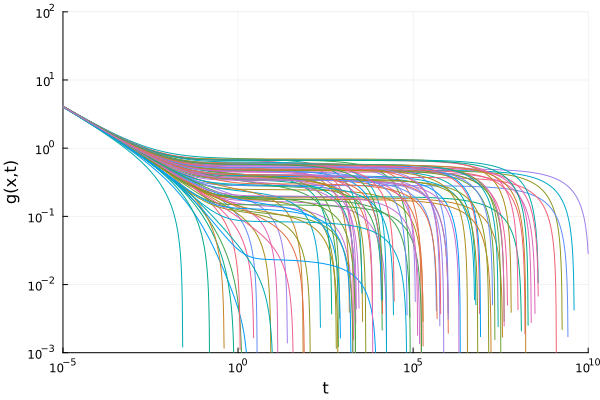
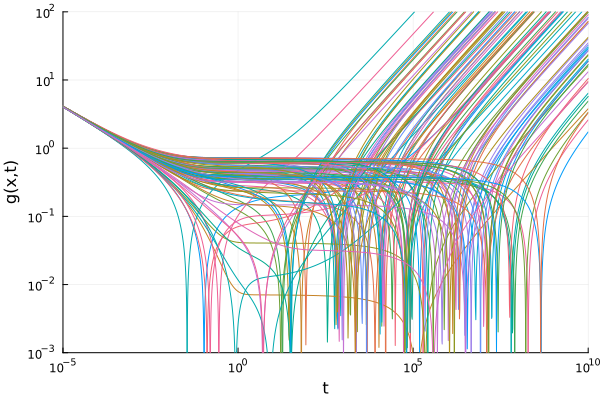
small improvement to docs

diff --git a/docs/src/index.md b/docs/src/index.md
@@ -57,7 +57,7 @@ sol = solve(eqn_sys, solver)
 
 p = plot(xlabel="t", xscale=:log10, yscale=:log10, ylabel="g(x,t)", xlims=(10^-5, 10^10), ylims=(10^-3, 10^2))
 for i in 1:100:length(σ_vec) # plot 100 out of the 10000 curves
-    plot!(p, sol.t[2:end], get_F(sol, 2:length(sol.t), i), label=nothing)
+    plot!(p, sol.t[2:end], abs.(get_F(sol, 2:length(sol.t), i)), label=nothing)
 end
 display(p)
 ```
